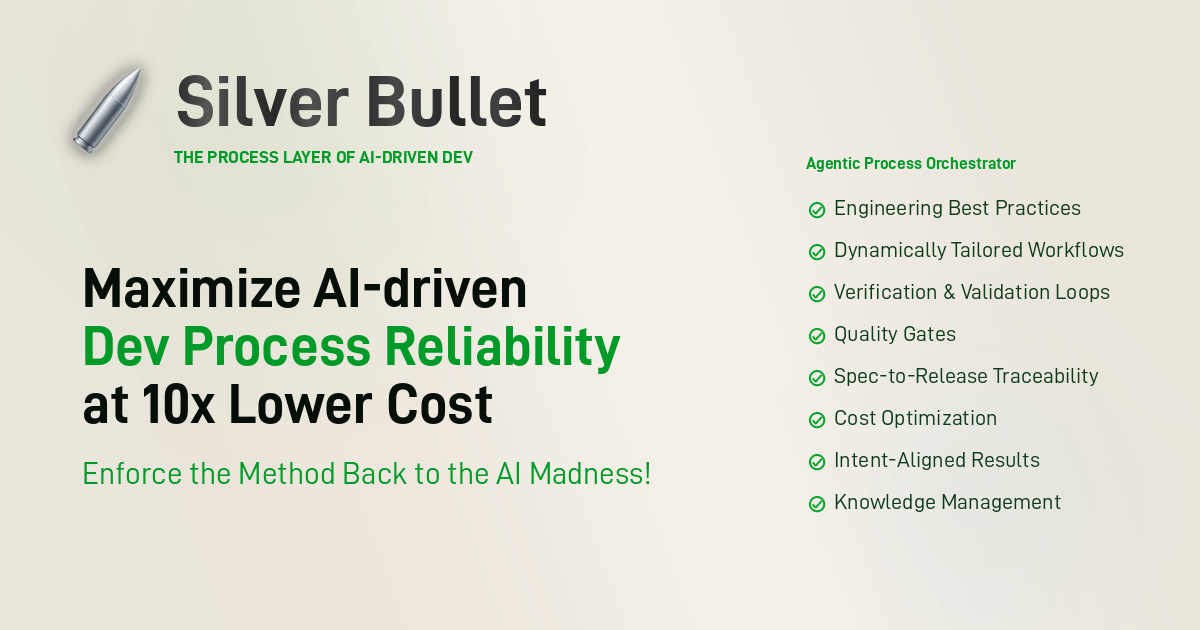
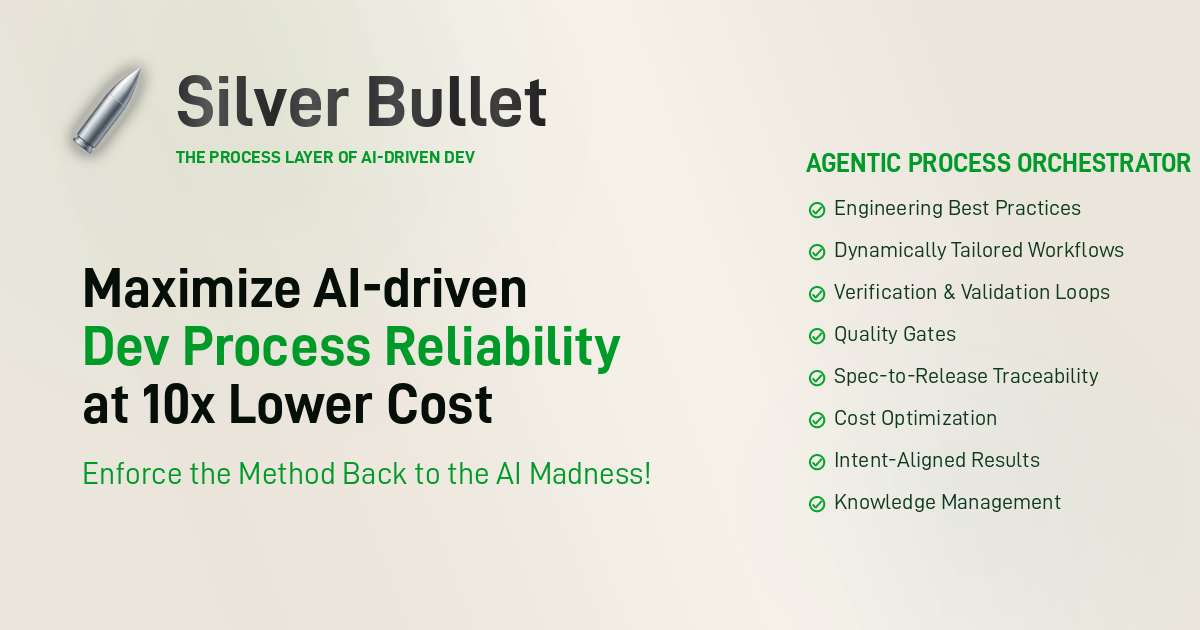
fix(site): refine OG image layout

Changed region(s): [[0.6475, 0.2413, 1.0, 0.2714], [0.1542, 0.2413, 0.4008, 0.2714]]

diff --git a/site/gen_og_image.py b/site/gen_og_image.py
@@ -233,7 +233,7 @@ def main() -> None:
     draw = ImageDraw.Draw(base)
 
     fonts = {
-        "label": ImageFont.truetype(str(FONT_BOLD), 17),
+        "label": ImageFont.truetype(str(FONT_BOLD), 26),
         "title": ImageFont.truetype(str(FONT_BOLD), 72),
         "tag": ImageFont.truetype(str(FONT_BOLD), 18),
         "headline": ImageFont.truetype(str(FONT_BOLD), 56),
@@ -255,7 +255,7 @@ def main() -> None:
     base.alpha_composite(bullet, (bx, by))
 
     draw_gradient_text(base, (174, 73), "Silver Bullet", fonts["title"], chrome_grad)
-    draw.text((174, 148), "THE PROCESS LAYER OF AI-DRIVEN DEV", font=fonts["tag"], fill=HERO_GREEN)
+    draw.text((176, 148), "THE PROCESS LAYER OF AI-DRIVEN DEV", font=fonts["tag"], fill=HERO_GREEN)
 
     draw.text((82, 260), "Maximize AI-driven", font=fonts["headline"], fill=TEXT_PRIMARY)
     draw.text((82, 318), "Dev Process Reliability", font=fonts["headline"], fill=HERO_GREEN)
@@ -274,7 +274,7 @@ def main() -> None:
         "Knowledge Management",
     ]
     right_x = 806
-    draw.text((right_x, 154), "Agentic Process Orchestrator", font=fonts["label"], fill=HERO_GREEN)
+    draw.text((right_x, 150), "AGENTIC PROCESS ORCHESTRATOR", font=fonts["label"], fill=HERO_GREEN)
     for idx, feature in enumerate(features):
         draw_feature(draw, base, (right_x, 196 + idx * 42), feature, fonts["feature"])
 
